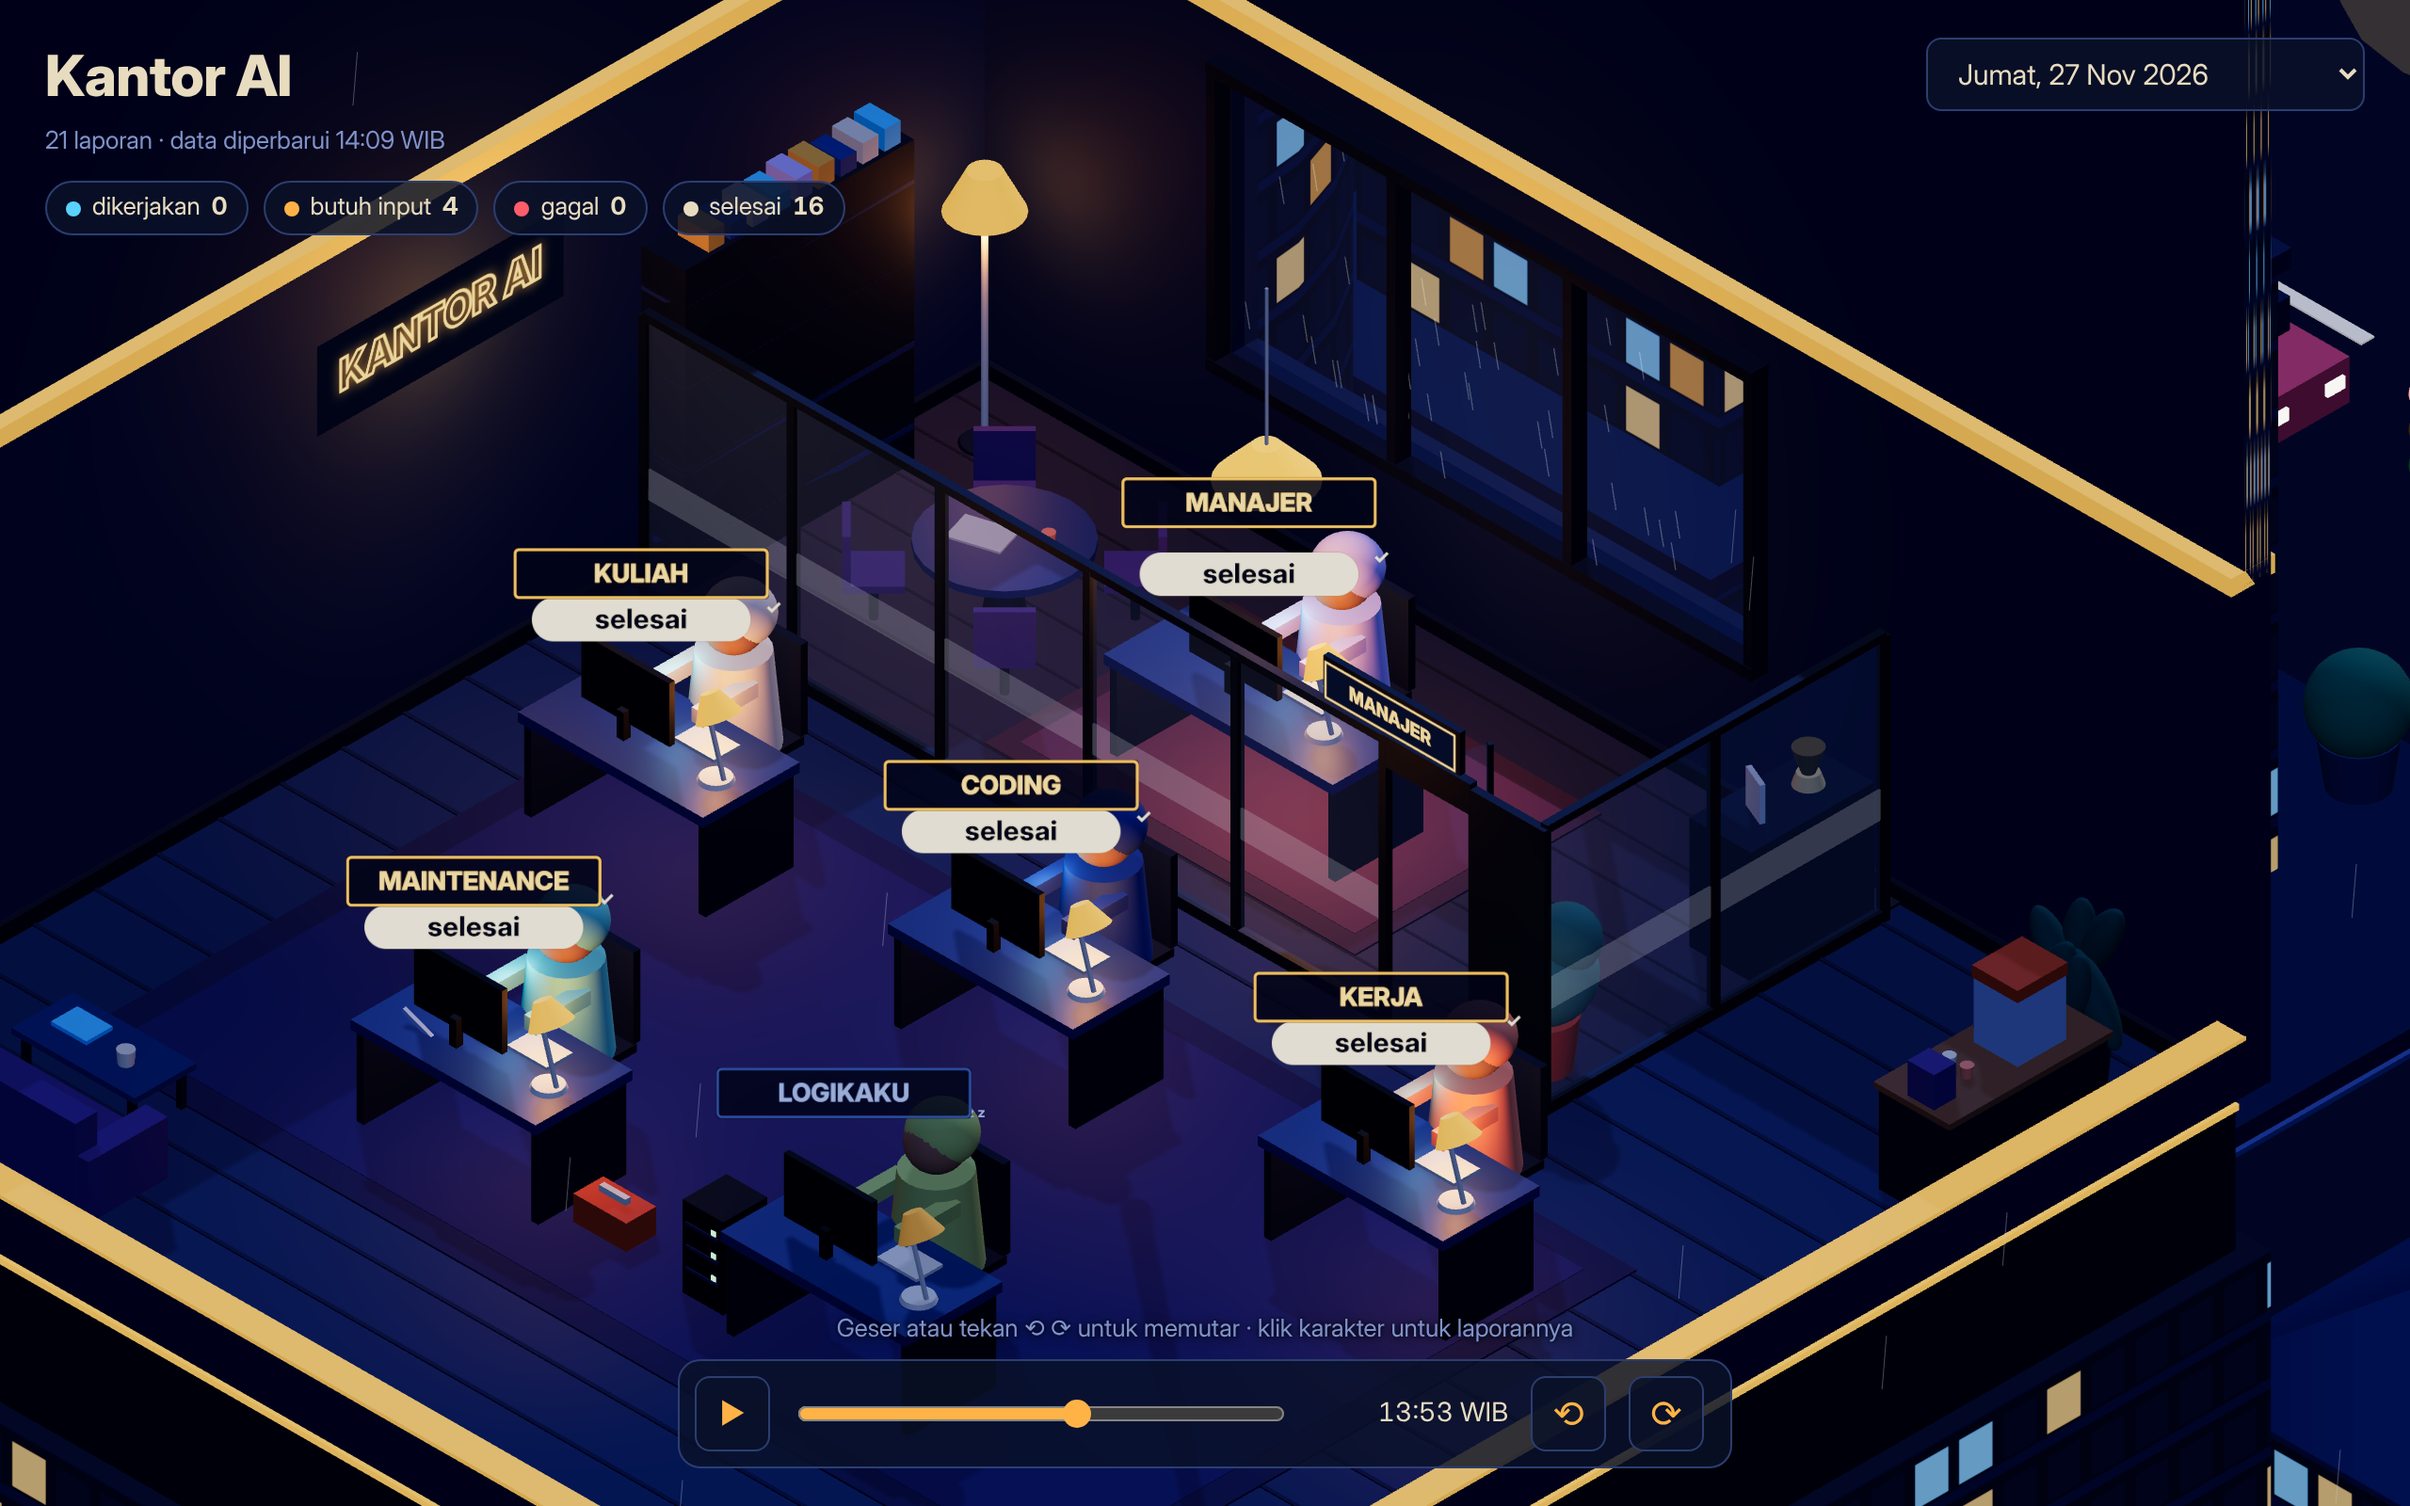
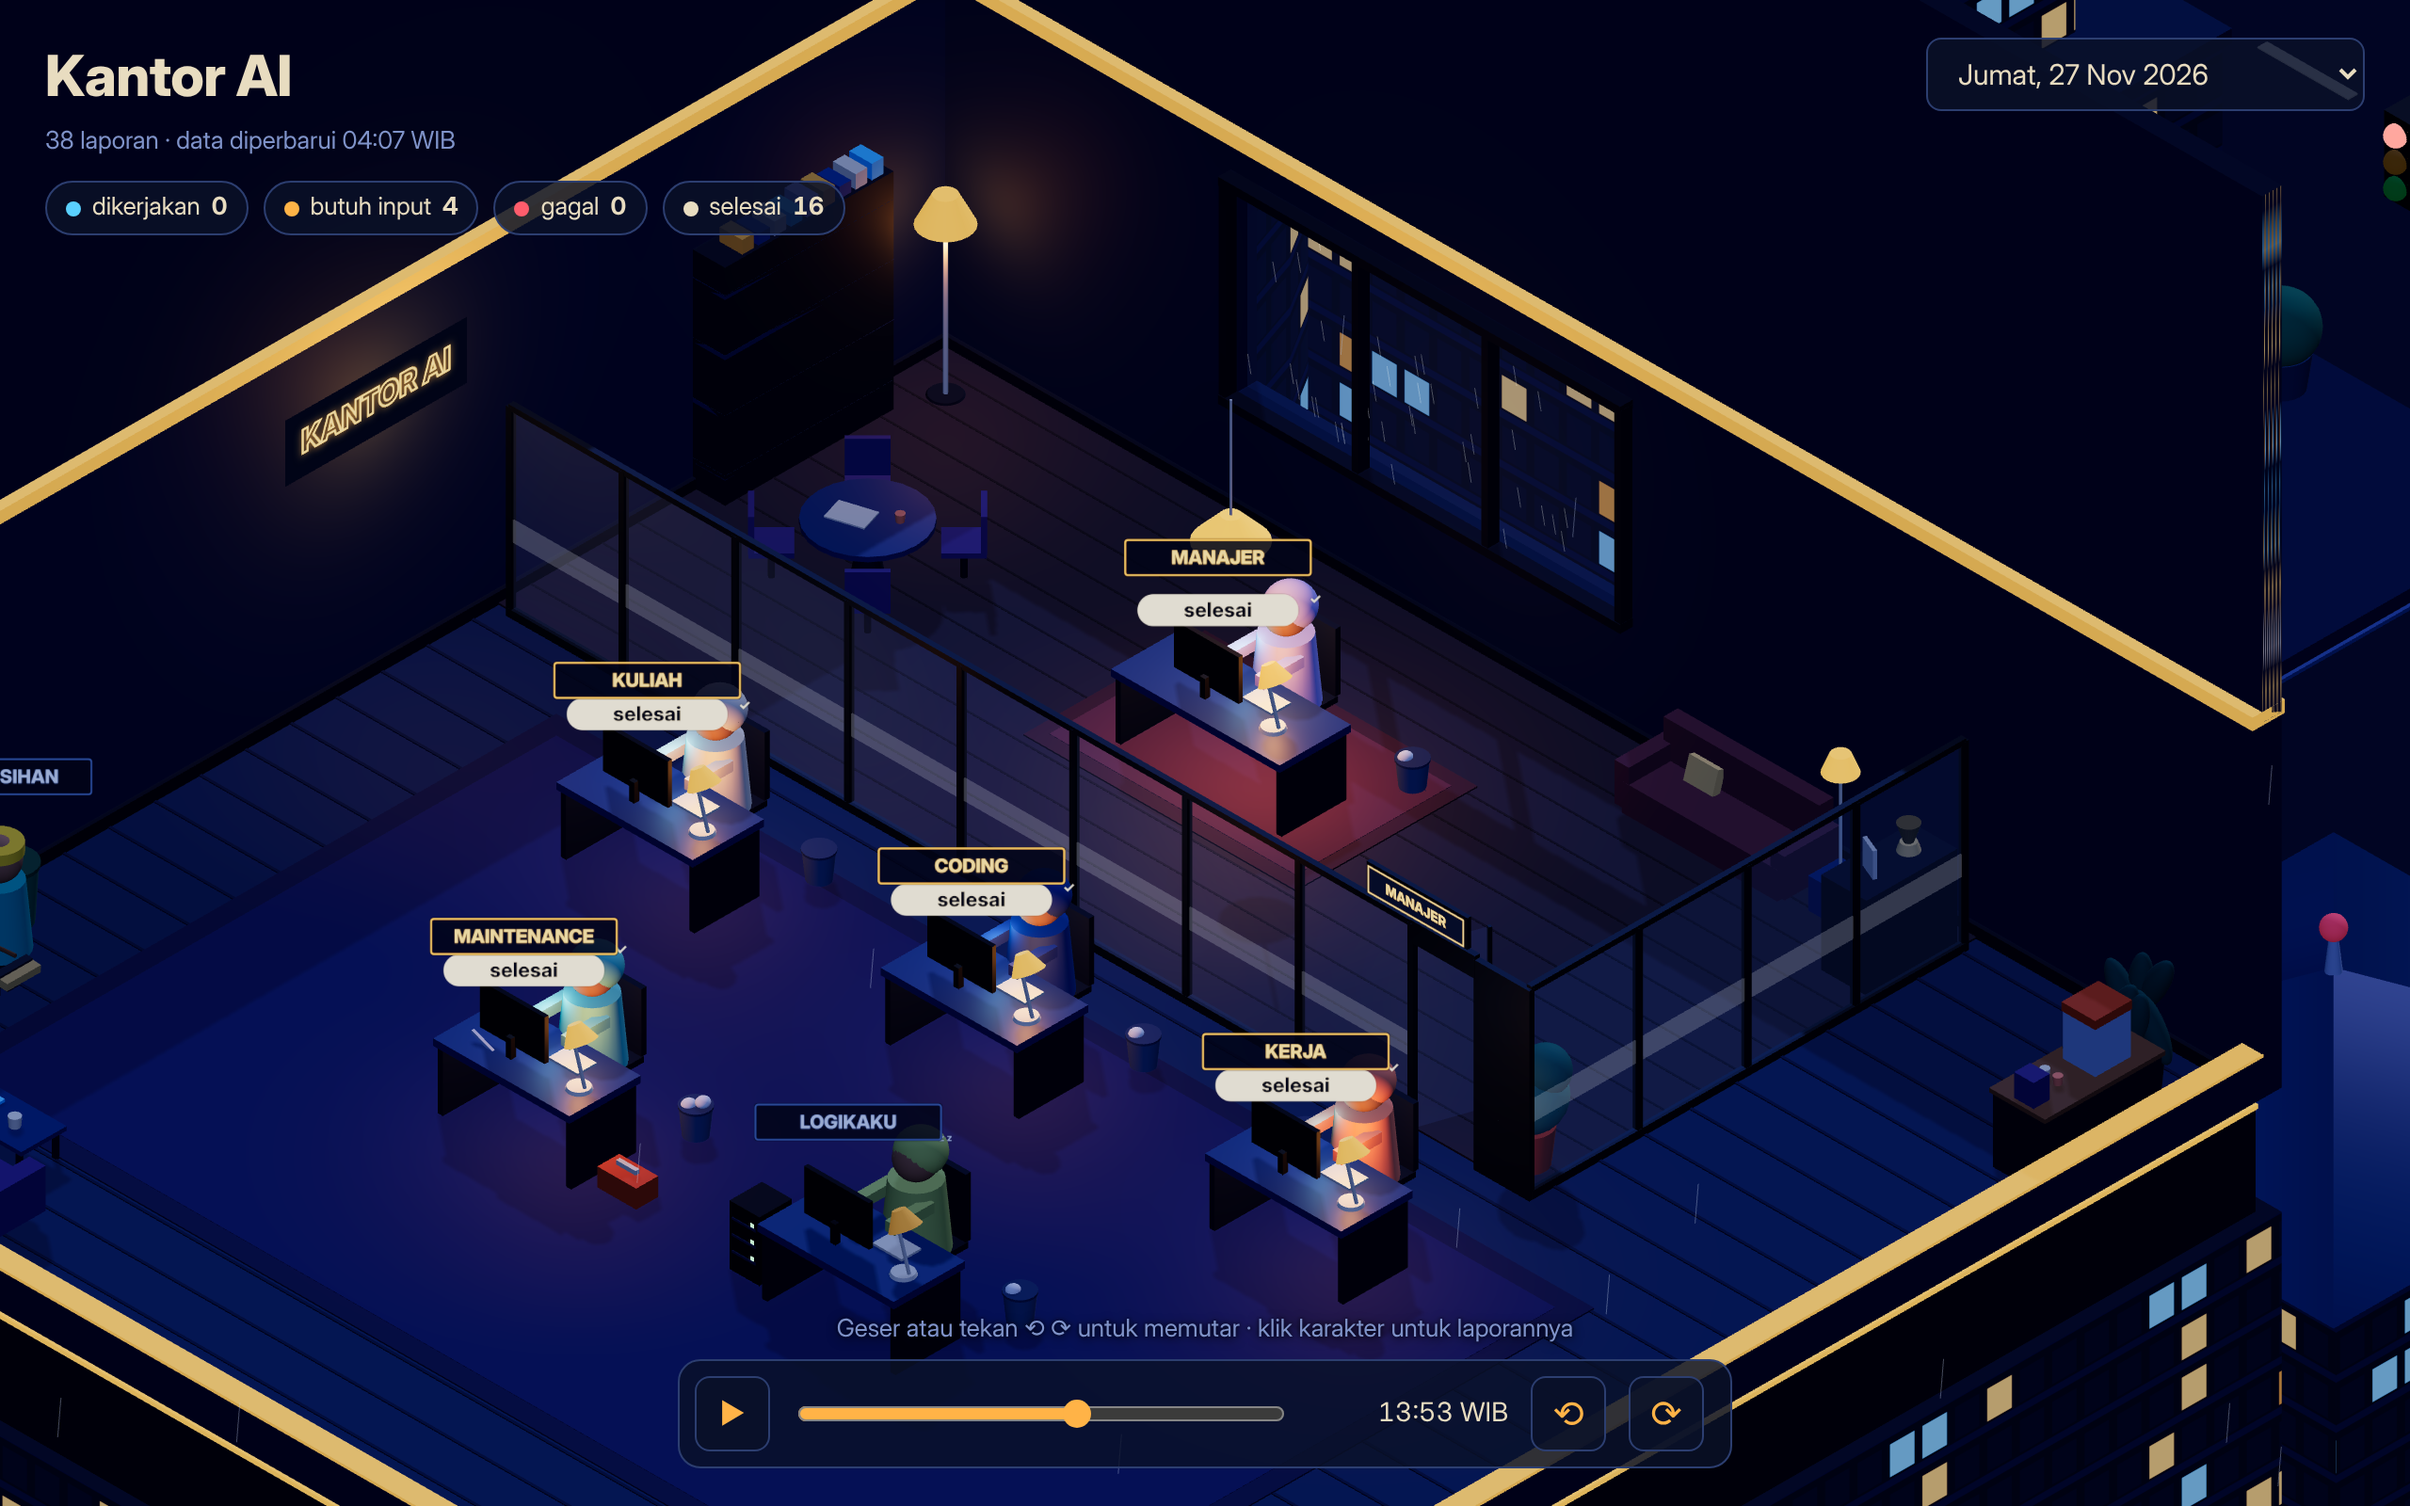
Kantor 3D: ruang manajer diperluas (16 x 7) dengan sofa tamu
Claude-Session: https://claude.ai/code/session_01TC1644zEPKkg35o3o8SKGe

diff --git a/kantor/app.js b/kantor/app.js
@@ -567,8 +567,8 @@ function bangunRuangan(lebar, dalam) {
     g.font = `800 78px ${FONT}`; g.textAlign = 'center'; g.textBaseline = 'middle'; g.strokeText('KANTOR AI', w / 2, h / 2);
   });
   const nm = new THREE.Mesh(new THREE.PlaneGeometry(2.8, 0.88), new THREE.MeshBasicMaterial({ map: neon }));
-  nm.rotation.y = Math.PI / 2; nm.position.set(-RX + 0.02, 3.6, rakZ + 4.8); dKiri.add(nm);
-  const lampuNeon = new THREE.PointLight(WARNA.sodium, 6, 6, 1.6); lampuNeon.position.set(-RX + 1, 3.6, rakZ + 4.8); scene.add(lampuNeon);
+  nm.rotation.y = Math.PI / 2; nm.position.set(-RX + 0.02, 3.6, rakZ + 6.2); dKiri.add(nm);
+  const lampuNeon = new THREE.PointLight(WARNA.sodium, 6, 6, 1.6); lampuNeon.position.set(-RX + 1, 3.6, rakZ + 6.2); scene.add(lampuNeon);
   // ---- dinding depan: jendela kedua
   const jx2 = 2.2;
   kotak(5.2, 0.12, 0.2, WARNA.gelap2, jx2, 1.55, RZ - 0.1, dDepan); kotak(5.2, 0.12, 0.2, WARNA.gelap2, jx2, 4.45, RZ - 0.1, dDepan);
@@ -637,7 +637,7 @@ function bangunRuangan(lebar, dalam) {
   jamM.rotation.y = -Math.PI / 2; jamM.position.set(RX - 0.06, 3.9, -0.6); dKanan.add(jamM);
 
   // ---- karpet di bawah meja departemen
-  const kz0 = -RZ + 6.2, kz1 = RZ - 2.2; // karpet di bawah baris meja departemen
+  const kz0 = -RZ + 8.0, kz1 = RZ - 2.2; // karpet di bawah baris meja departemen
   kotak(lebar - 4, 0.02, kz1 - kz0, 0x2a2350, 0, 0.025, (kz0 + kz1) / 2, scene, false).receiveShadow = true;
   kotak(lebar - 4.6, 0.022, kz1 - kz0 - 0.6, 0x342c62, 0, 0.03, (kz0 + kz1) / 2, scene, false).receiveShadow = true;
 
@@ -692,8 +692,8 @@ function bangunRuangan(lebar, dalam) {
   // tempat yang didatangi pegawai yang sedang jalan-jalan (arah = hadap tubuh, radian)
   tempatJalan = [
     { x: 2.2, z: RZ - 0.8, arah: 0 }, // jendela depan
-    { x: 0.6, z: -RZ + 5.8, arah: Math.PI }, // mengintip ruang manajer lewat kaca
-    { x: -RX + 1.3, z: -RZ + 7.4, arah: -Math.PI / 2 }, // neon KANTOR AI
+    { x: 0.6, z: -RZ + 7.6, arah: Math.PI }, // mengintip ruang manajer lewat kaca
+    { x: -RX + 1.3, z: -RZ + 8.8, arah: -Math.PI / 2 }, // neon KANTOR AI
     { x: RX - 1.3, z: RZ - 0.8, arah: Math.PI / 2 }, // dispenser
     { x: LORONG_X, z: 1.6, arah: Math.PI / 2 }, // papan tulis dari jauh
   ];
@@ -841,6 +841,16 @@ function bangunRuangManajer(r, meja) {
   tabung(0.1, 0.14, 0.12, 0xffcf7a, ax, 1.37, az - 0.3); // piala
   tabung(0.14, 0.06, 0.25, mat(0xffcf7a, { m: 0.8, r: 0.3 }), ax, 1.55, az - 0.3);
   kotak(0.3, 0.38, 0.05, 0xe8dcc0, ax, 1.5, az + 0.3).rotation.y = -0.4; // bingkai foto
+  // sofa tamu di dinding belakang dengan meja samping dan lampu baca
+  const fx = x1 - 3.2, fz = z0 + 0.75;
+  const mSofaM = mat(0x7a3f4c, { r: 0.95 });
+  kotak(2.4, 0.42, 0.85, mSofaM, fx, 0.3, fz);
+  kotak(2.4, 0.7, 0.22, mSofaM, fx, 0.7, fz - 0.33);
+  for (const s of [-1, 1]) kotak(0.22, 0.58, 0.85, mSofaM, fx + s * 1.2, 0.45, fz);
+  kotak(0.45, 0.32, 0.12, 0xffcf7a, fx - 0.5, 0.66, fz - 0.15).rotation.x = -0.3;
+  kotak(0.5, 0.5, 0.5, WARNA.meja, fx + 1.75, 0.25, fz);
+  tabung(0.02, 0.02, 1.5, WARNA.krem, fx + 1.75, 1.25, fz);
+  tabung(0.12, 0.22, 0.25, mat(WARNA.sodium, { e: WARNA.sodium, ei: 0.7 }), fx + 1.75, 2.0, fz);
   // tanaman besar di pojok
   tabung(0.3, 0.24, 0.55, 0xd9532b, x1 - 0.45, 0.28, z1 - 0.45);
   bola(0.45, 0x4f8a6b, x1 - 0.45, 0.95, z1 - 0.45); bola(0.3, 0x3f7a5e, x1 - 0.3, 1.3, z1 - 0.55);

diff --git a/kantor/status.js b/kantor/status.js
@@ -80,12 +80,12 @@ export function tataMeja(karyawan) {
   const perBaris = lain.length === 4 ? 4 : 3; // empat departemen muat sebaris
   const jarak = perBaris === 4 ? 4.2 : 5;
   const baris = Math.max(1, Math.ceil(lain.length / perBaris));
-  const dalam = 9.2 + baris * 4.4;
+  const dalam = 11.2 + baris * 4.4;
   const meja = [];
-  let z0 = -dalam / 2 + 3.0;
+  let z0 = -dalam / 2 + 3.6;
   // manajer punya ruangan sendiri berdinding kaca di sisi belakang lantai yang sama
   for (const k of manajer) meja.push({ id: k.id, x: manajer.length ? MANAJER_X : 0, z: z0 });
-  z0 = -dalam / 2 + (manajer.length ? 7.6 : 3.8);
+  z0 = -dalam / 2 + (manajer.length ? 9.4 : 3.8);
   lain.forEach((k, i) => {
     const r = Math.floor(i / perBaris), sisa = Math.min(perBaris, lain.length - r * perBaris), c = i % perBaris;
     meja.push({ id: k.id, x: (c - (sisa - 1) / 2) * jarak, z: z0 + r * 4.4 });
@@ -94,8 +94,8 @@ export function tataMeja(karyawan) {
   for (const k of petugas) meja.push({ id: k.id, x: POS_PETUGAS.x, z: -dalam / 2 + POS_PETUGAS.dariBelakang });
   const lebar = LEBAR;
   const ruangManajer = manajer.length ? {
-    x0: -lebar / 2, x1: 5, z0: -dalam / 2, z1: -dalam / 2 + 5.2,
-    pintu: { x: 3.7, z: -dalam / 2 + 5.2 },
+    x0: -lebar / 2, x1: 6, z0: -dalam / 2, z1: -dalam / 2 + 7,
+    pintu: { x: 4.7, z: -dalam / 2 + 7 },
   } : null;
   return { meja, lebar, dalam, ruangManajer };
 }
@@ -140,7 +140,7 @@ export function menganggur(status) {
 /** id petugas kebersihan (cleaning service) di karyawan.json. */
 export const PETUGAS = 'kebersihan';
 /** Tempat mangkal petugas kebersihan: di depan troli, dekat dinding kiri. */
-export const POS_PETUGAS = { x: -LORONG_X + 0.1, dariBelakang: 14.2 };
+export const POS_PETUGAS = { x: -LORONG_X + 0.1, dariBelakang: 16 };
 
 /**
  * Rute petugas kebersihan dari titik a ke titik b lewat lorong samping kiri.
